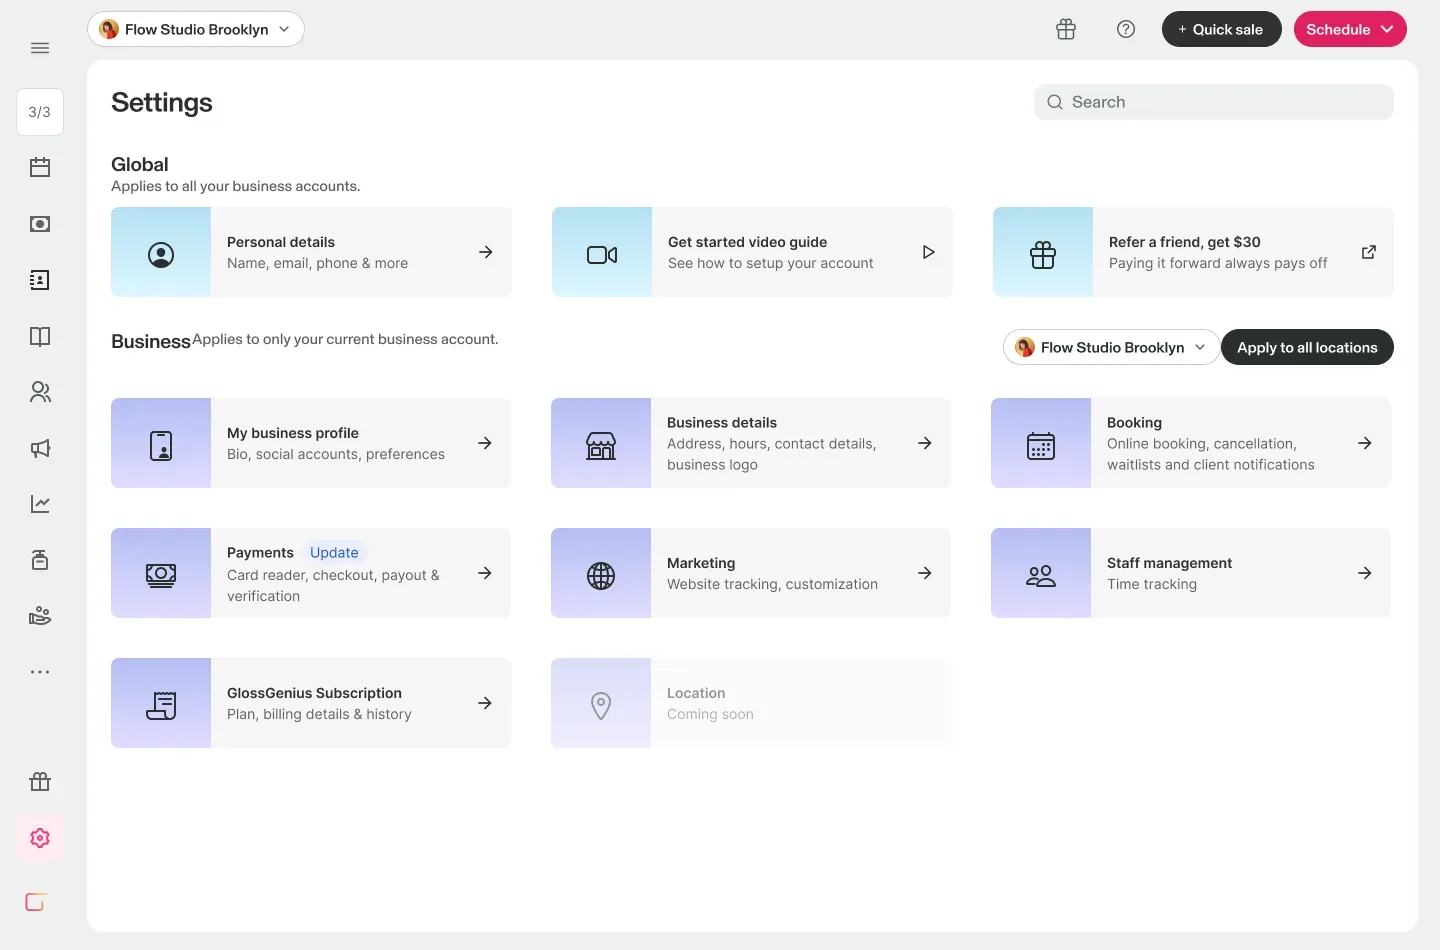
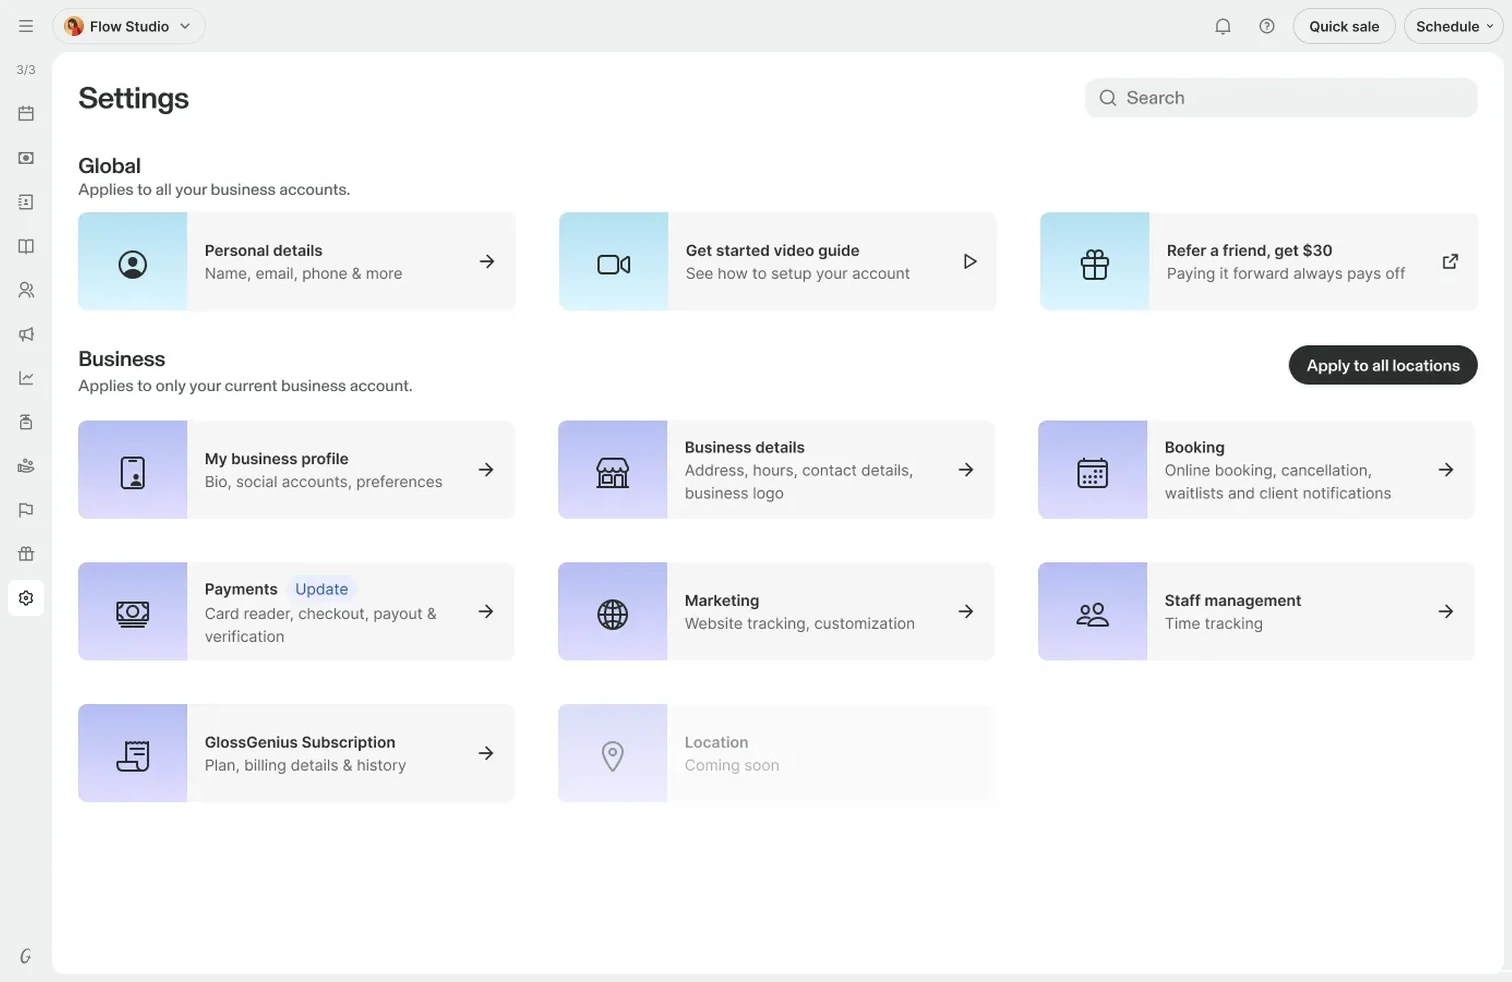
Multi Location: clean up the proposed settings mock
Sits in the current app frame (header, sidebar) like the other mocks; the
Business subtitle no longer runs into its heading, and the stray business
switcher beside Apply to all locations is gone.

Claude-Session: https://claude.ai/code/session_01VfeLV8XZ819E3sTS2rx56B

diff --git a/case-study/index.html b/case-study/index.html
@@ -616,7 +616,7 @@ dialog form button{background:none;border:0;color:#C9CFCE;font:400 12px var(--mo
 <section class="slide screens" data-name="Proposed, not shipped"><div class="stage">
   <div class="head"><h3 class="title">Proposed, not shipped</h3></div>
   <div class="content"><div class="flowseq">
-    <div class="frame seq" data-zoom role="button" tabindex="0" aria-label="Enlarge screen" style="--r:1440/950"><img src="img/set-proposal.webp" alt="Proposal: settings split into Global and Business, with Apply to all locations" style="object-position:top left" loading="lazy" decoding="async"></div>
+    <div class="frame seq" data-zoom role="button" tabindex="0" aria-label="Enlarge screen" style="--r:1512/982"><img src="img/set-proposal.webp" alt="Proposal: settings split into Global and Business, with Apply to all locations" style="object-position:top left" loading="lazy" decoding="async"></div>
     <p class="foot">A bolder settings home. Global settings follow you across every business; business settings are scoped to one location, with one action to apply them to all.</p>
   </div></div>
 </div></section>
